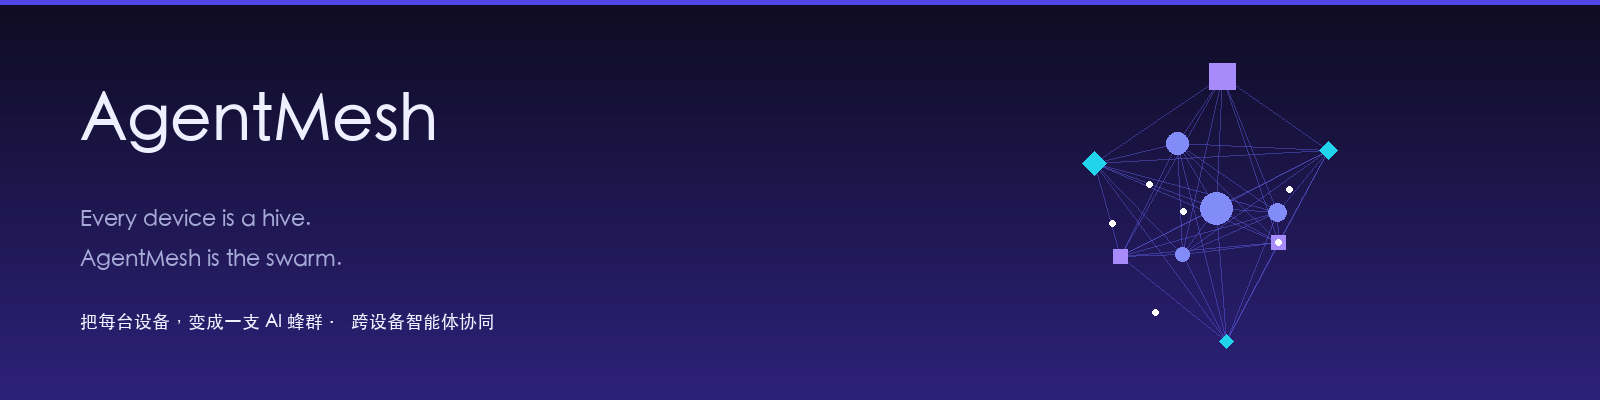
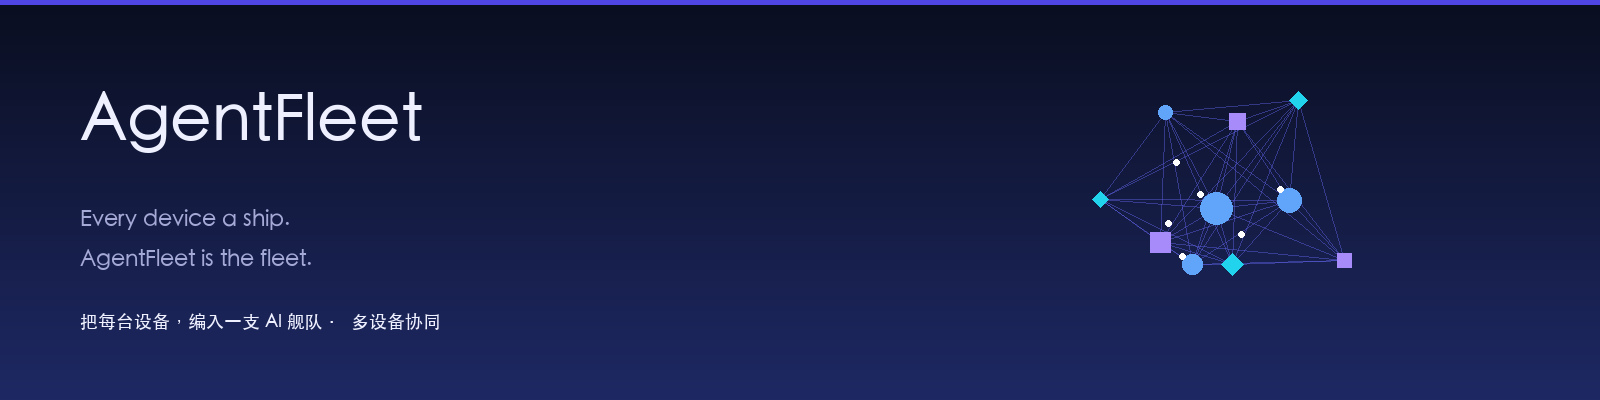
chore: 补全 AgentFleet 改名残留（benchmark 脚本 3 处）

diff --git a/backend/scripts/benchmark-scheduler.ts b/backend/scripts/benchmark-scheduler.ts
@@ -11,7 +11,7 @@ import { enqueueTask, setSchedulerHooks, release } from '../src/services/schedul
 import type { AgentType } from '@agentfleet/shared';
 
 /**
- * AgentMesh 调度内核 benchmark（可复现）
+ * AgentFleet 调度内核 benchmark（可复现）
  *
  * 度量跨设备蜂群调度的核心指标：
  *   1. 吞吐：N 设备 × K agent 下，M 任务的完成吞吐（tasks/s）
@@ -60,11 +60,11 @@ async function main(): Promise<void> {
   const args = parseArgs(process.argv.slice(2));
   const totalAgents = args.devices * args.agentsPerDevice;
 
-  const tmp = fs.mkdtempSync(path.join(os.tmpdir(), 'agentmesh-bench-'));
+  const tmp = fs.mkdtempSync(path.join(os.tmpdir(), 'agentfleet-bench-'));
   config.dbPath = path.join(tmp, 'bench.db');
   initDatabase();
 
-  console.log('# AgentMesh 调度内核 benchmark');
+  console.log('# AgentFleet 调度内核 benchmark');
   console.log(
     `# 设备=${args.devices} agent/设备=${args.agentsPerDevice} 总agent=${totalAgents} 任务=${args.tasks} 单任务=${args.execMs}ms` +
       (args.failDeviceAtMs > 0 ? ` 故障注入@${args.failDeviceAtMs}ms` : ''),

diff --git a/README.zh-CN.md b/README.zh-CN.md
@@ -1,8 +1,8 @@
-# AgentFleet · 跨设备智能体协同 —— 把每台设备，变成一支 AI 蜂群
+# AgentFleet · 跨设备智能体协同 —— 把每台设备，编入一支 AI 舰队
 
-[![AgentFleet —— 把每台设备，变成一支 AI 蜂群](docs/images/banner.png)](docs/images/banner.png)
+[![AgentFleet —— 把每台设备，编入一支 AI 舰队](docs/images/banner.png)](docs/images/banner.png)
 
-AgentFleet 是一个**可自托管的跨设备智能体协同层**。它不造新 agent，而是把你每台设备上**已安装**的 AI agent（Codex / Claude Code / Cursor / Aider / Gemini / Qwen / Grok 等 13+ 平台）统一调度，让你能在一台电脑上同时运行多个 AI 编程助手、跨设备像指挥一支蜂群一样协同，用动态神经图实时看见它们工作，并拥有防篡改的共享记忆。不同于那些从零再造 agent 的多智能体框架，AgentFleet 架设在你已有的 agent 之上。
+AgentFleet 是一个**可自托管的跨设备智能体协同层**。它不造新 agent，而是把你每台设备上**已安装**的 AI agent（Codex / Claude Code / Cursor / Aider / Gemini / Qwen / Grok 等 13+ 平台）统一调度，让你能在一台电脑上同时运行多个 AI 编程助手、跨设备像指挥一支舰队一样协同，用动态神经图实时看见它们工作，并拥有防篡改的共享记忆。不同于那些从零再造 agent 的多智能体框架，AgentFleet 架设在你已有的 agent 之上。
 
 > ⚡ **30 秒上手**
 > ```bash

diff --git a/README.md b/README.md
@@ -1,8 +1,8 @@
-# AgentFleet · Cross-Device AI Orchestration — Every device is a hive. AgentFleet is the swarm.
+# AgentFleet · Cross-Device AI Orchestration — Every device a ship. AgentFleet is the fleet.
 
-[![AgentFleet — Every device is a hive. AgentFleet is the swarm.](docs/images/banner.png)](docs/images/banner.png)
+[![AgentFleet — Every device a ship. AgentFleet is the fleet.](docs/images/banner.png)](docs/images/banner.png)
 
-AgentFleet is a **self-hosted cross-device AI orchestration layer**. It doesn't build new agents — it coordinates the AI agents **you've already installed** (Claude Code, Codex, Cursor, Aider, Gemini, Qwen, Grok and 10+ more) into one swarm, so you can run multiple coding agents across machines, watch them work on a live neural graph, and keep tamper-evident shared memory. Unlike multi-agent frameworks that rebuild agents from scratch, AgentFleet sits **above** what you already run.
+AgentFleet is a **self-hosted cross-device AI orchestration layer**. It doesn't build new agents — it coordinates the AI agents **you've already installed** (Claude Code, Codex, Cursor, Aider, Gemini, Qwen, Grok and 10+ more) into one fleet, so you can run multiple coding agents across machines, watch them work on a live neural graph, and keep tamper-evident shared memory. Unlike multi-agent frameworks that rebuild agents from scratch, AgentFleet sits **above** what you already run.
 
 > ⚡ **30-second start**
 > ```bash
